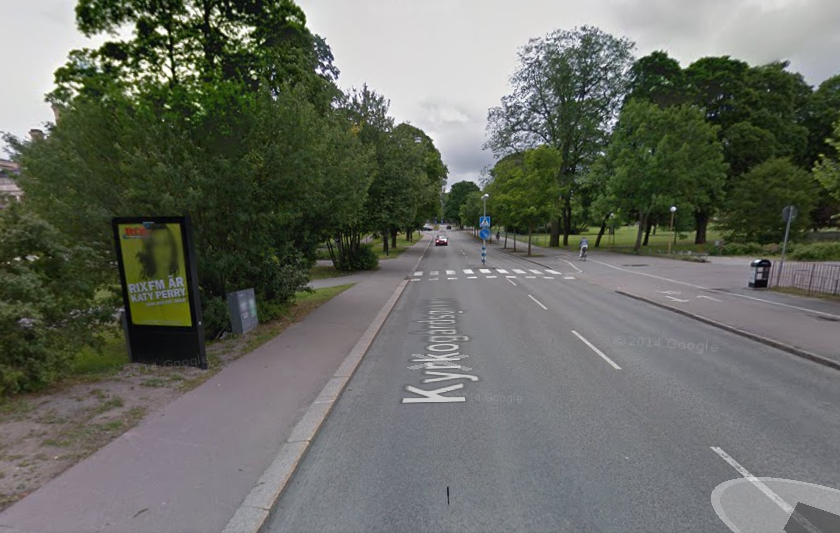
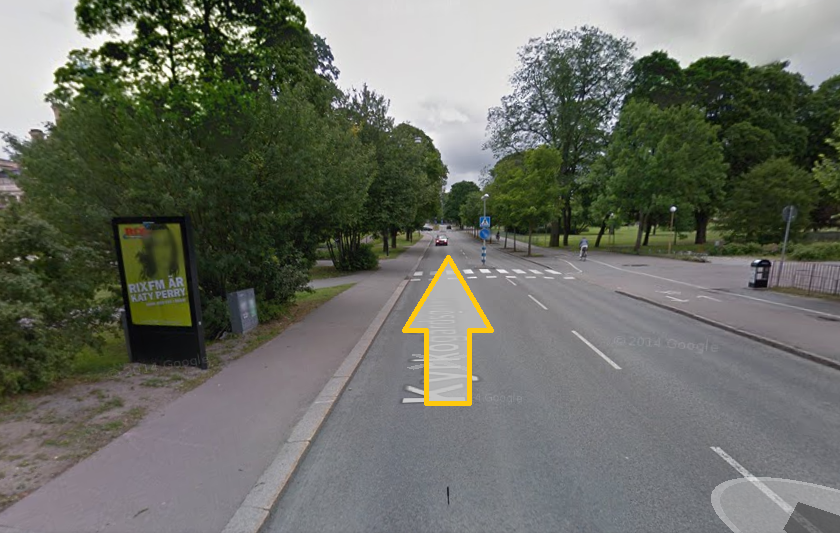
added arrows into the first four images;

Changed region(s): [[0.4643, 0.4803, 0.5881, 0.7805]]

diff --git a/src/index.html b/src/index.html
@@ -32,7 +32,7 @@
                 <img src="img/02.png" height="350" width="40%" draggable="false"/>
             </div>
             <div class="row">
-                <div class="well">
+                <div class="jumbotron">
                     <p>You are now on the Kyrkogårdsgatan street.</p>
                     <p>Keep going straight on the direction shown in the left image until you reach the junction shown
                         on
